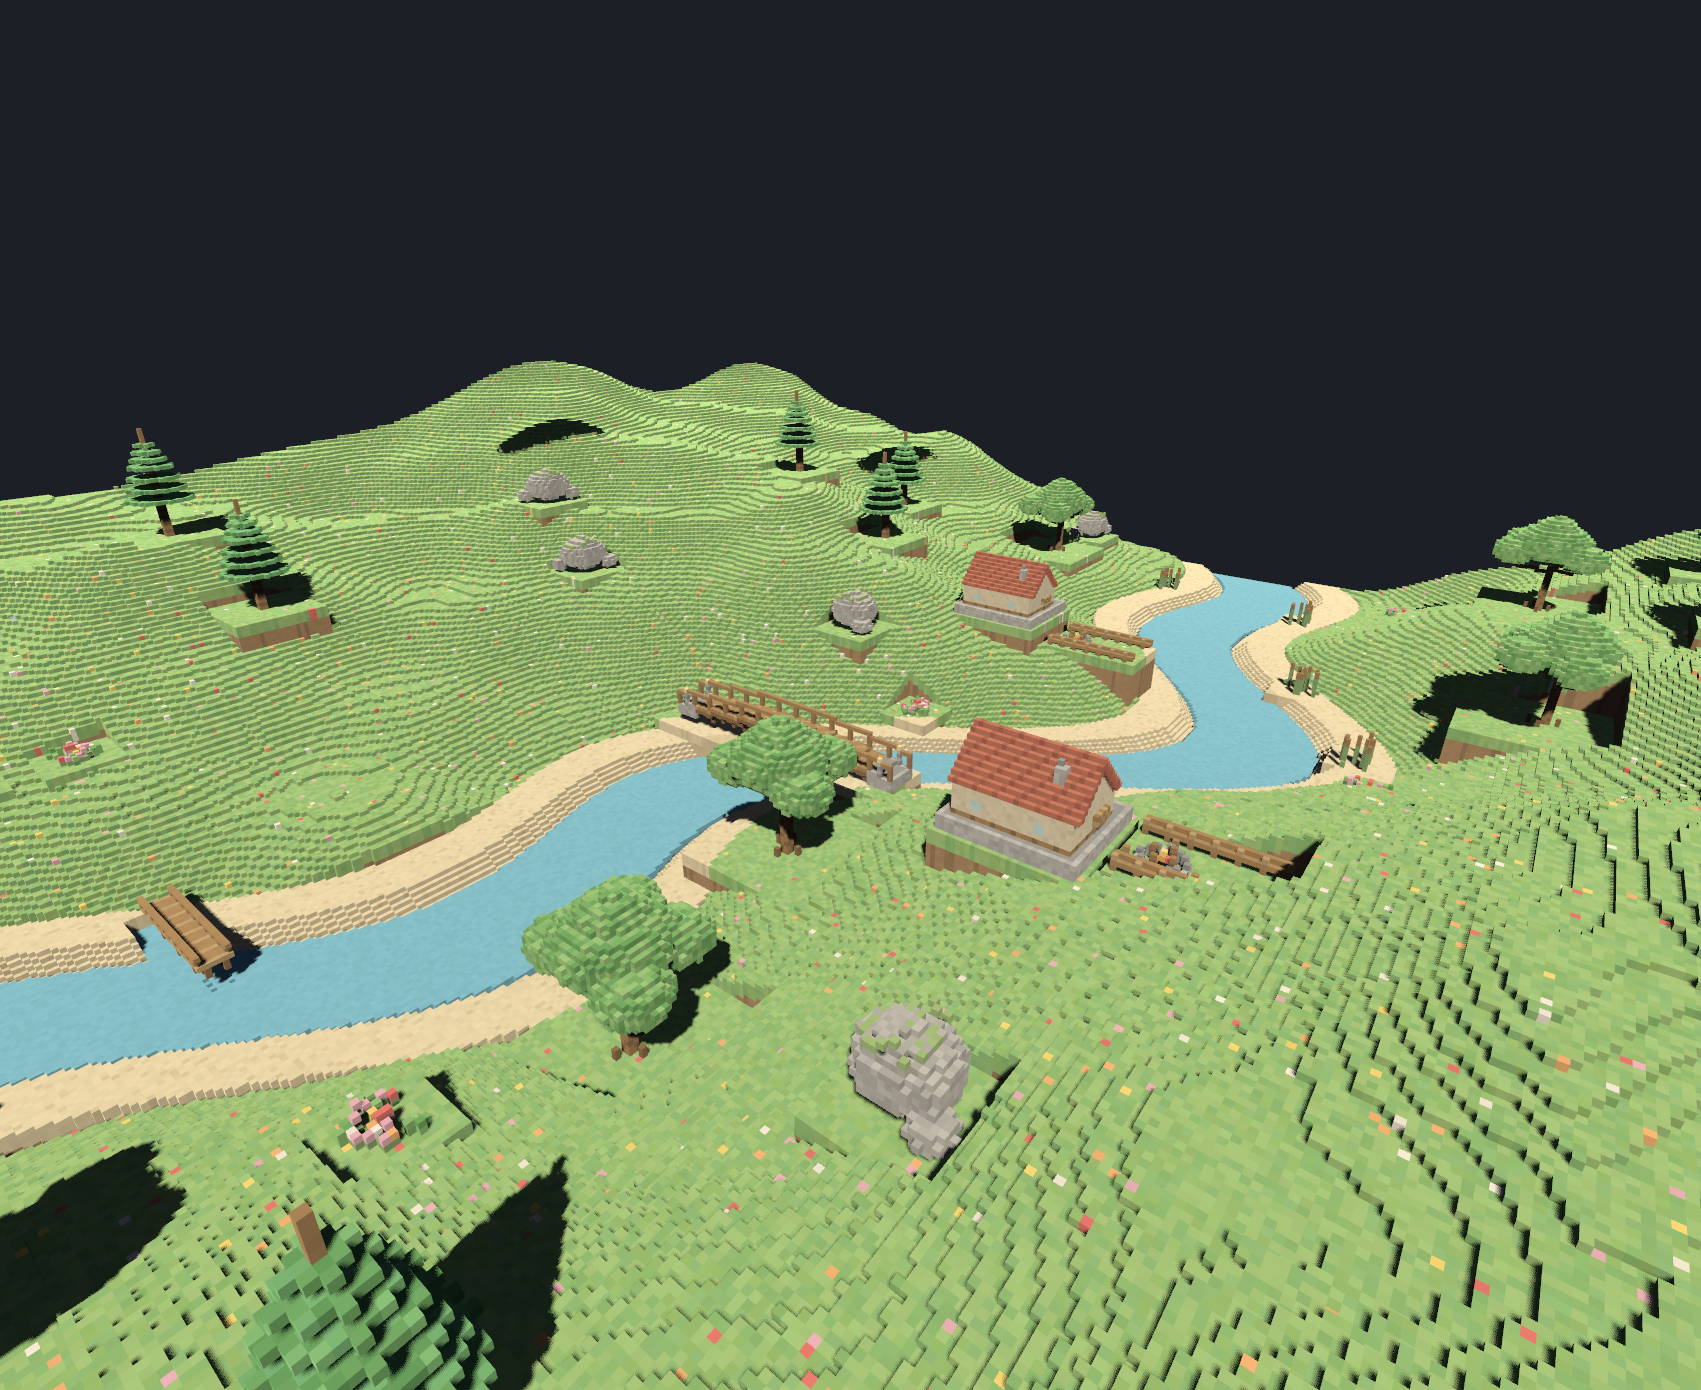
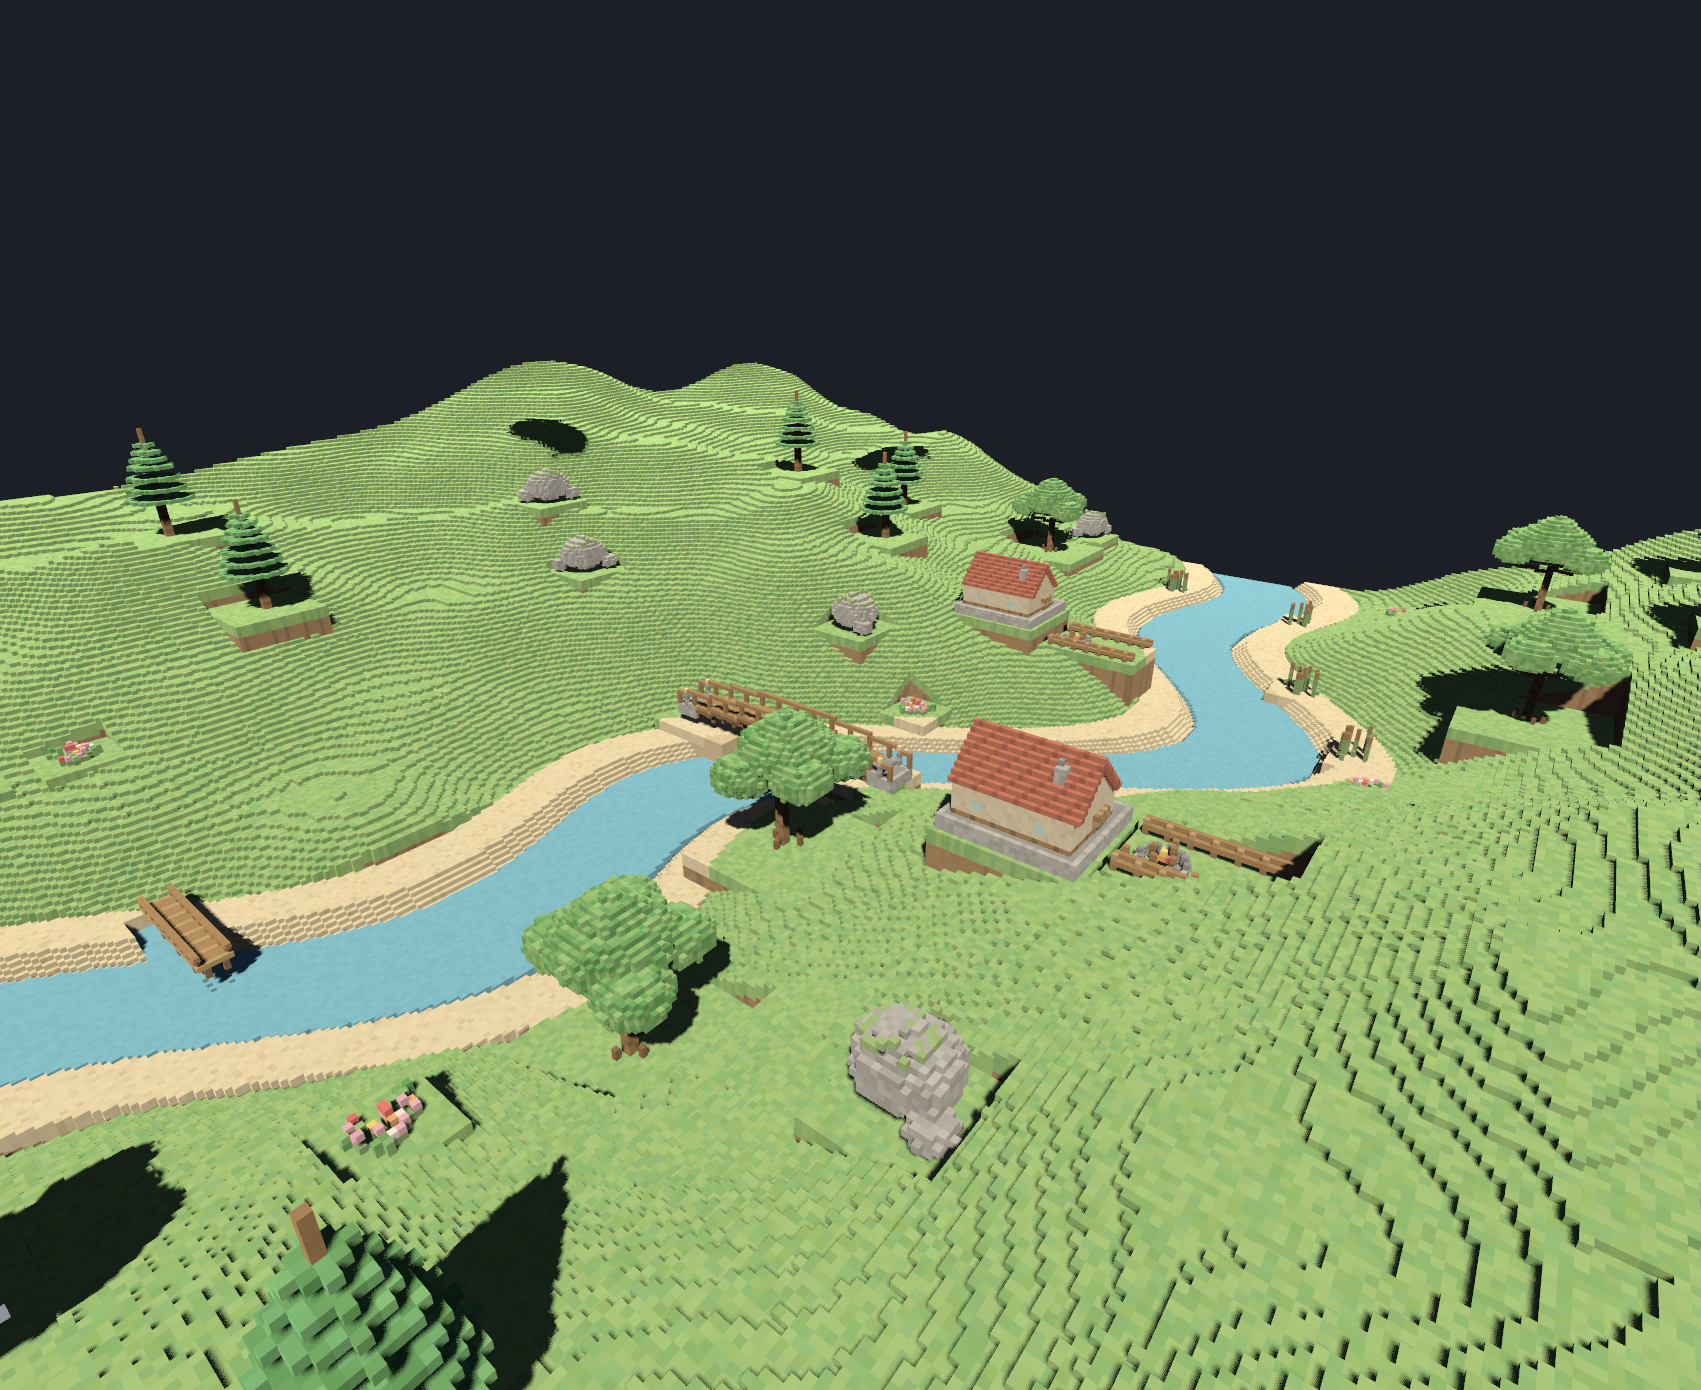
Valley builder: re-frame after reopen, fresh post-reload screenshot
- main() re-applies the hero camera after open() (which resets it) and
  waits for chunk rebuilds before the shipped screenshot
- replaces the black-frame capture with a verified post-reopen shot

diff --git a/tools/build_valley_512.py b/tools/build_valley_512.py
@@ -930,6 +930,15 @@ def main():
         raise RuntimeError(f"reload lost prefabs: {state}")
     if int(state["prefab_counts"].get("ok", 0)) != state["prefab_instances"]:
         raise RuntimeError(f"some reloaded instances invalid: {state['prefab_counts']}")
+    # Re-frame: open() resets the camera, so re-apply the hero framing and
+    # let chunk rebuilds settle before capturing the shipped screenshot.
+    call("set_grid_visible", {"visible": False})
+    call("set_orthographic", {"on": False})
+    call("frame")
+    call("set_camera", {"yaw": 38, "pitch": -24, "distance": 260})
+    call("pan", {"dx": 0, "dy": -30})
+    call("zoom", {"steps": 2})
+    time.sleep(8)
     shot = call("screenshot")
     shot_path = str(shot.get("path", ""))
     if shot_path and os.path.isfile(shot_path):
